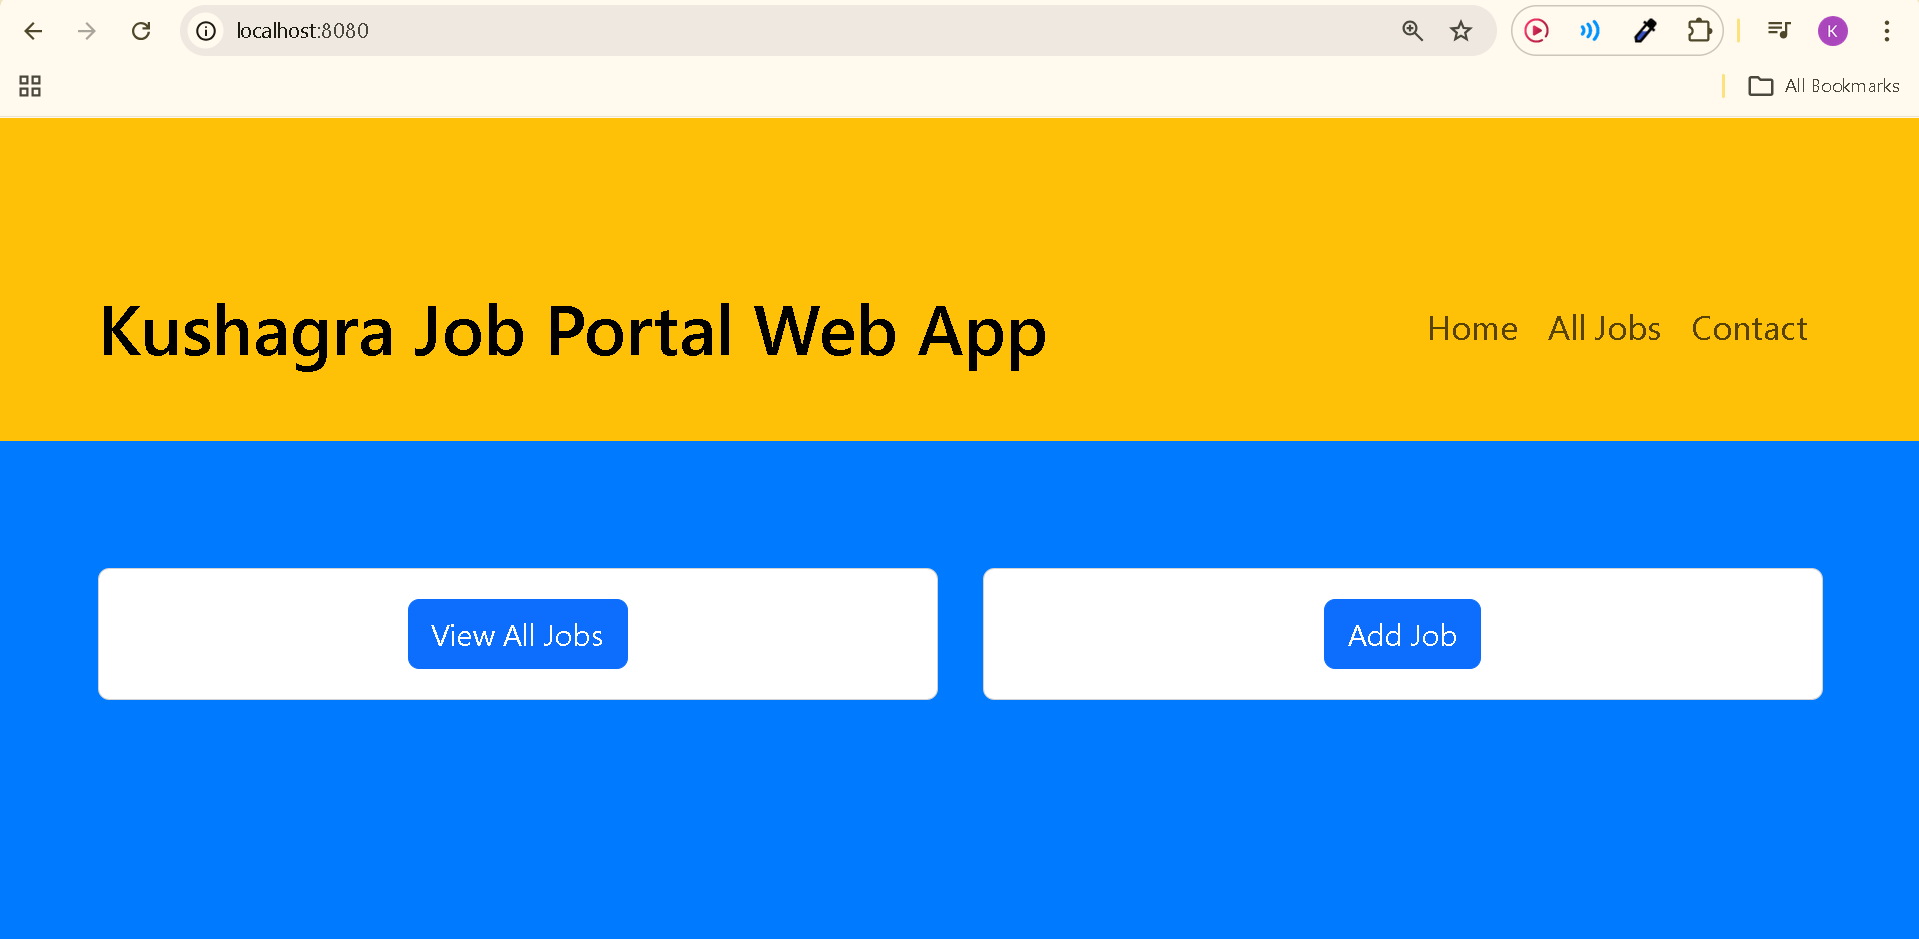
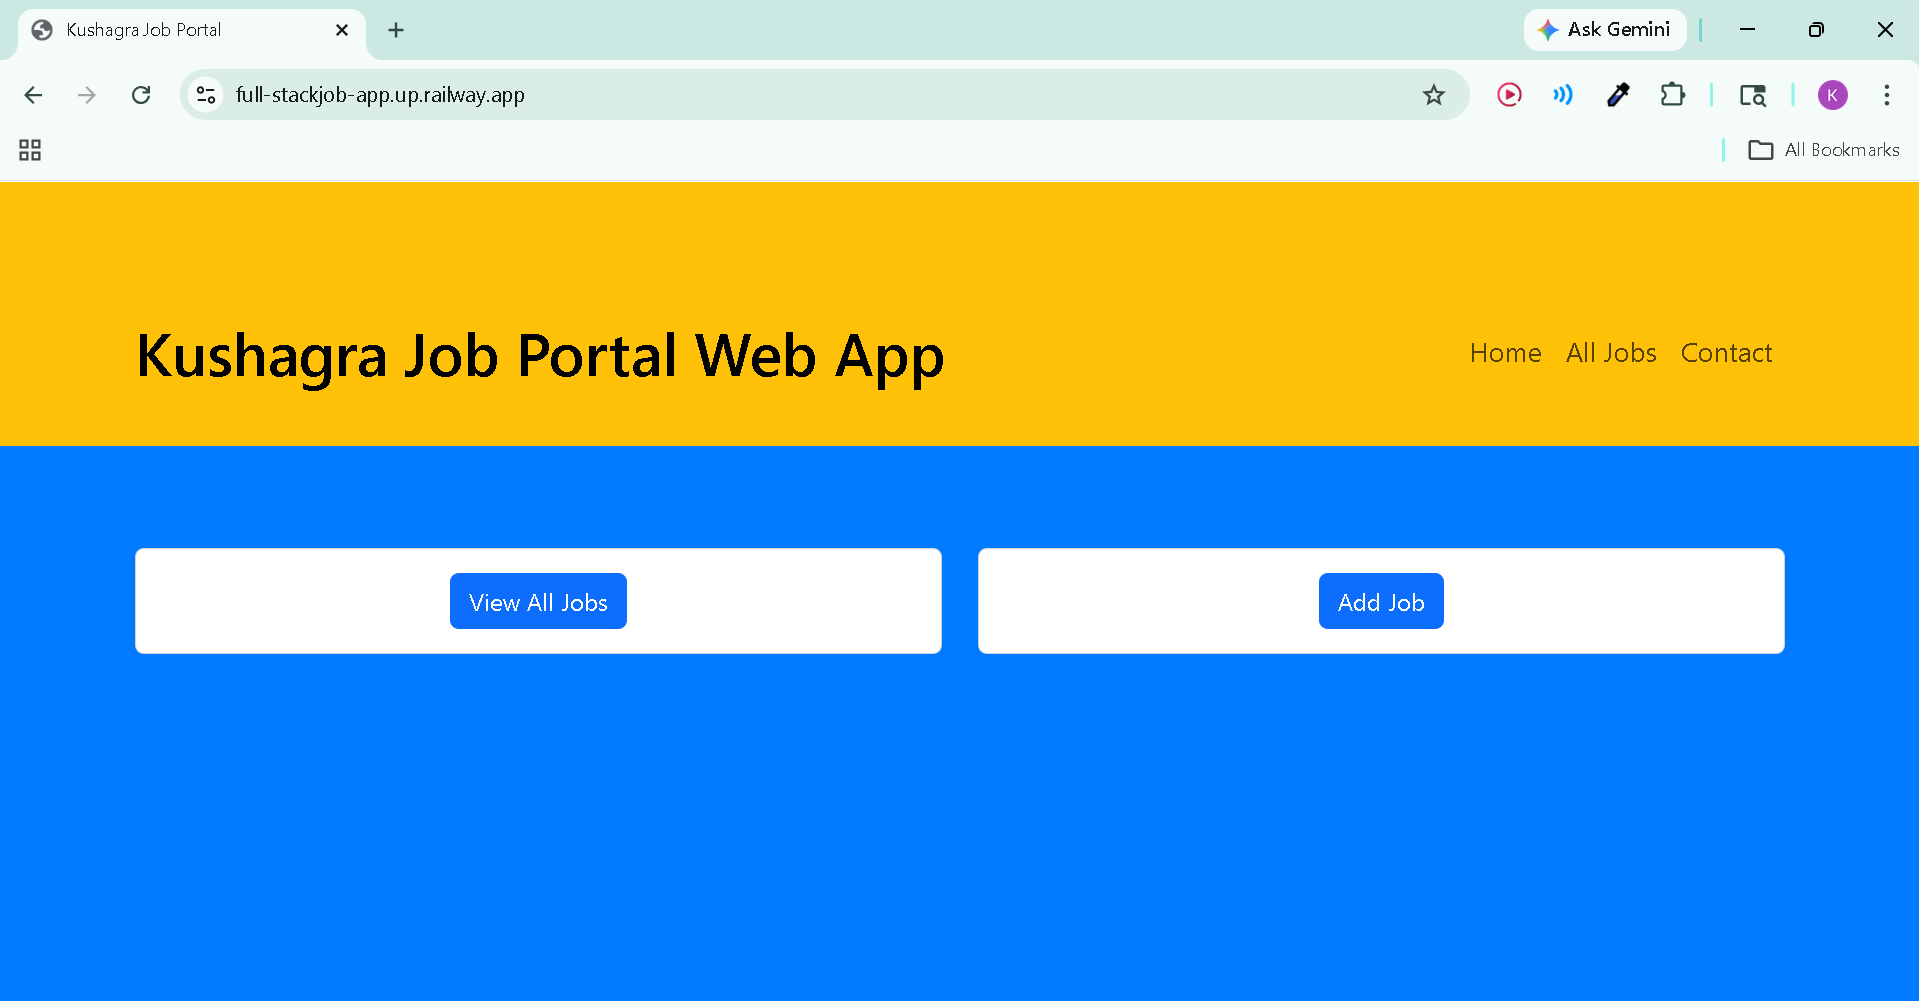
Update README with Railway deployment

diff --git a/README.md b/README.md
@@ -4,19 +4,48 @@
   <img src="images/web-app-preview.png" width="800" alt="Kushagra Job Portal Preview">
 </p>
 
-This project is a comprehensive **Job Portal Web Application** built using **Spring Boot** and managed with a professional **Jenkins CI/CD Pipeline**.
+This project is a comprehensive **Job Portal Web Application** built using **Spring Boot**, deployed live on **Railway**, and managed with a professional **Jenkins CI/CD Pipeline**.
+
+🌐 **Live Demo**: [full-stackjob-app.up.railway.app](https://full-stackjob-app.up.railway.app)
 
 ---
 
 ## 💻 Application Features & Architecture
+
 * **MVC Architecture**: Model (`JobPost.java`), View (JSP), and Controller (`JobController.java`).
 * **View Technologies**: Uses **JSP** with custom CSS (`style.css`, `style1.css`).
 * **REST API**: `JobController` exposes endpoints for data access.
 
 ---
 
+## 🚀 Deployment
+
+The app is deployed on **Railway** using Docker and WAR packaging.
+
+* **Packaging**: Spring Boot WAR (required for JSP support with embedded Tomcat)
+* **Containerization**: Multi-stage Dockerfile — Maven builds the WAR, Eclipse Temurin runs it
+* **Hosting**: Railway — auto-deploys on every `git push` to `main`
+
+### Dockerfile
+```dockerfile
+FROM maven:3.9.6-eclipse-temurin-21 AS build
+WORKDIR /app
+COPY . .
+RUN mvn clean package -DskipTests
+
+FROM eclipse-temurin:21-jdk
+WORKDIR /app
+COPY --from=build /app/target/*.war app.war
+EXPOSE 8080
+ENTRYPOINT ["java", "-jar", "app.war"]
+```
+
+---
+
 ## ⚙ DevOps & CI Pipeline
+
 The project features a **Declarative Jenkins Pipeline**:
+
 1. **Workspace Cleanup**: Uses `deleteDir()`.
 2. **Build Stage**: Maven compiles the project.
 3. **Test Stage**: Runs unit tests.
@@ -57,10 +86,9 @@ pipeline {
 | **Total Build Time** | ~5 seconds |
 | **Tests Run** | 1 |
 | **Build Status** | **SUCCESS** |
+| **Deployment** | Railway (Live) |
 
 ---
 
 **Author:** Kushagra  
 *DevOps & Full Stack Enthusiast*
-
-
